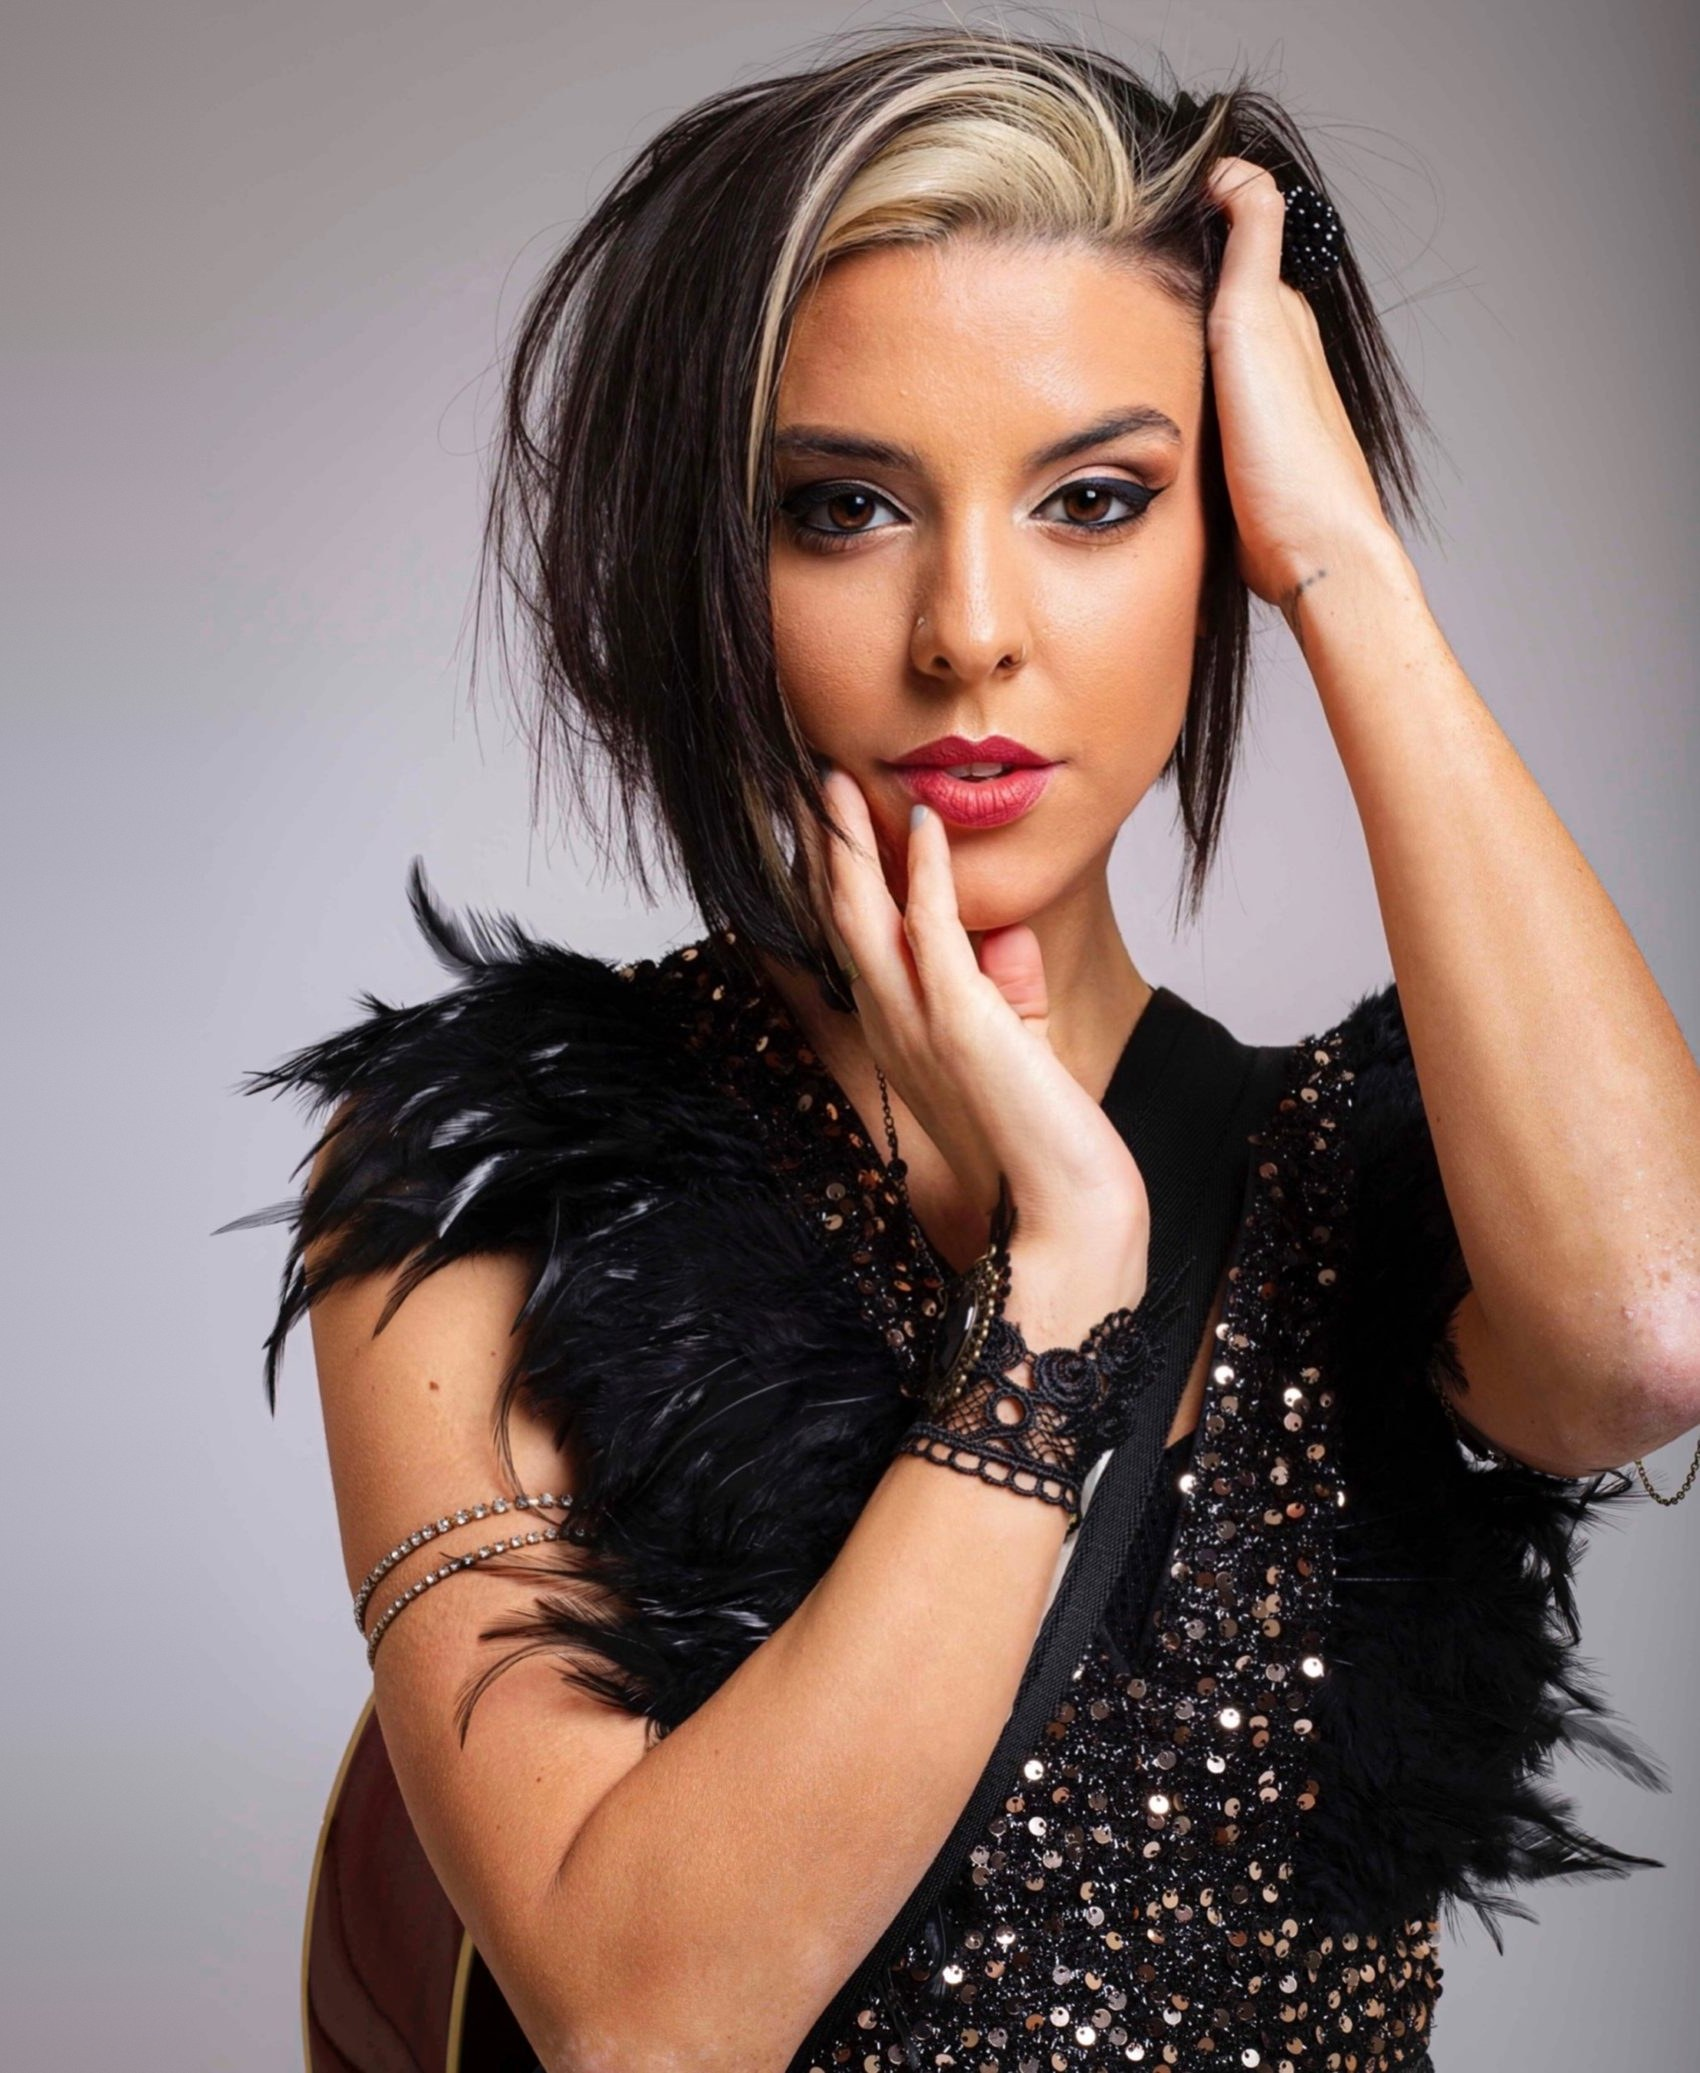
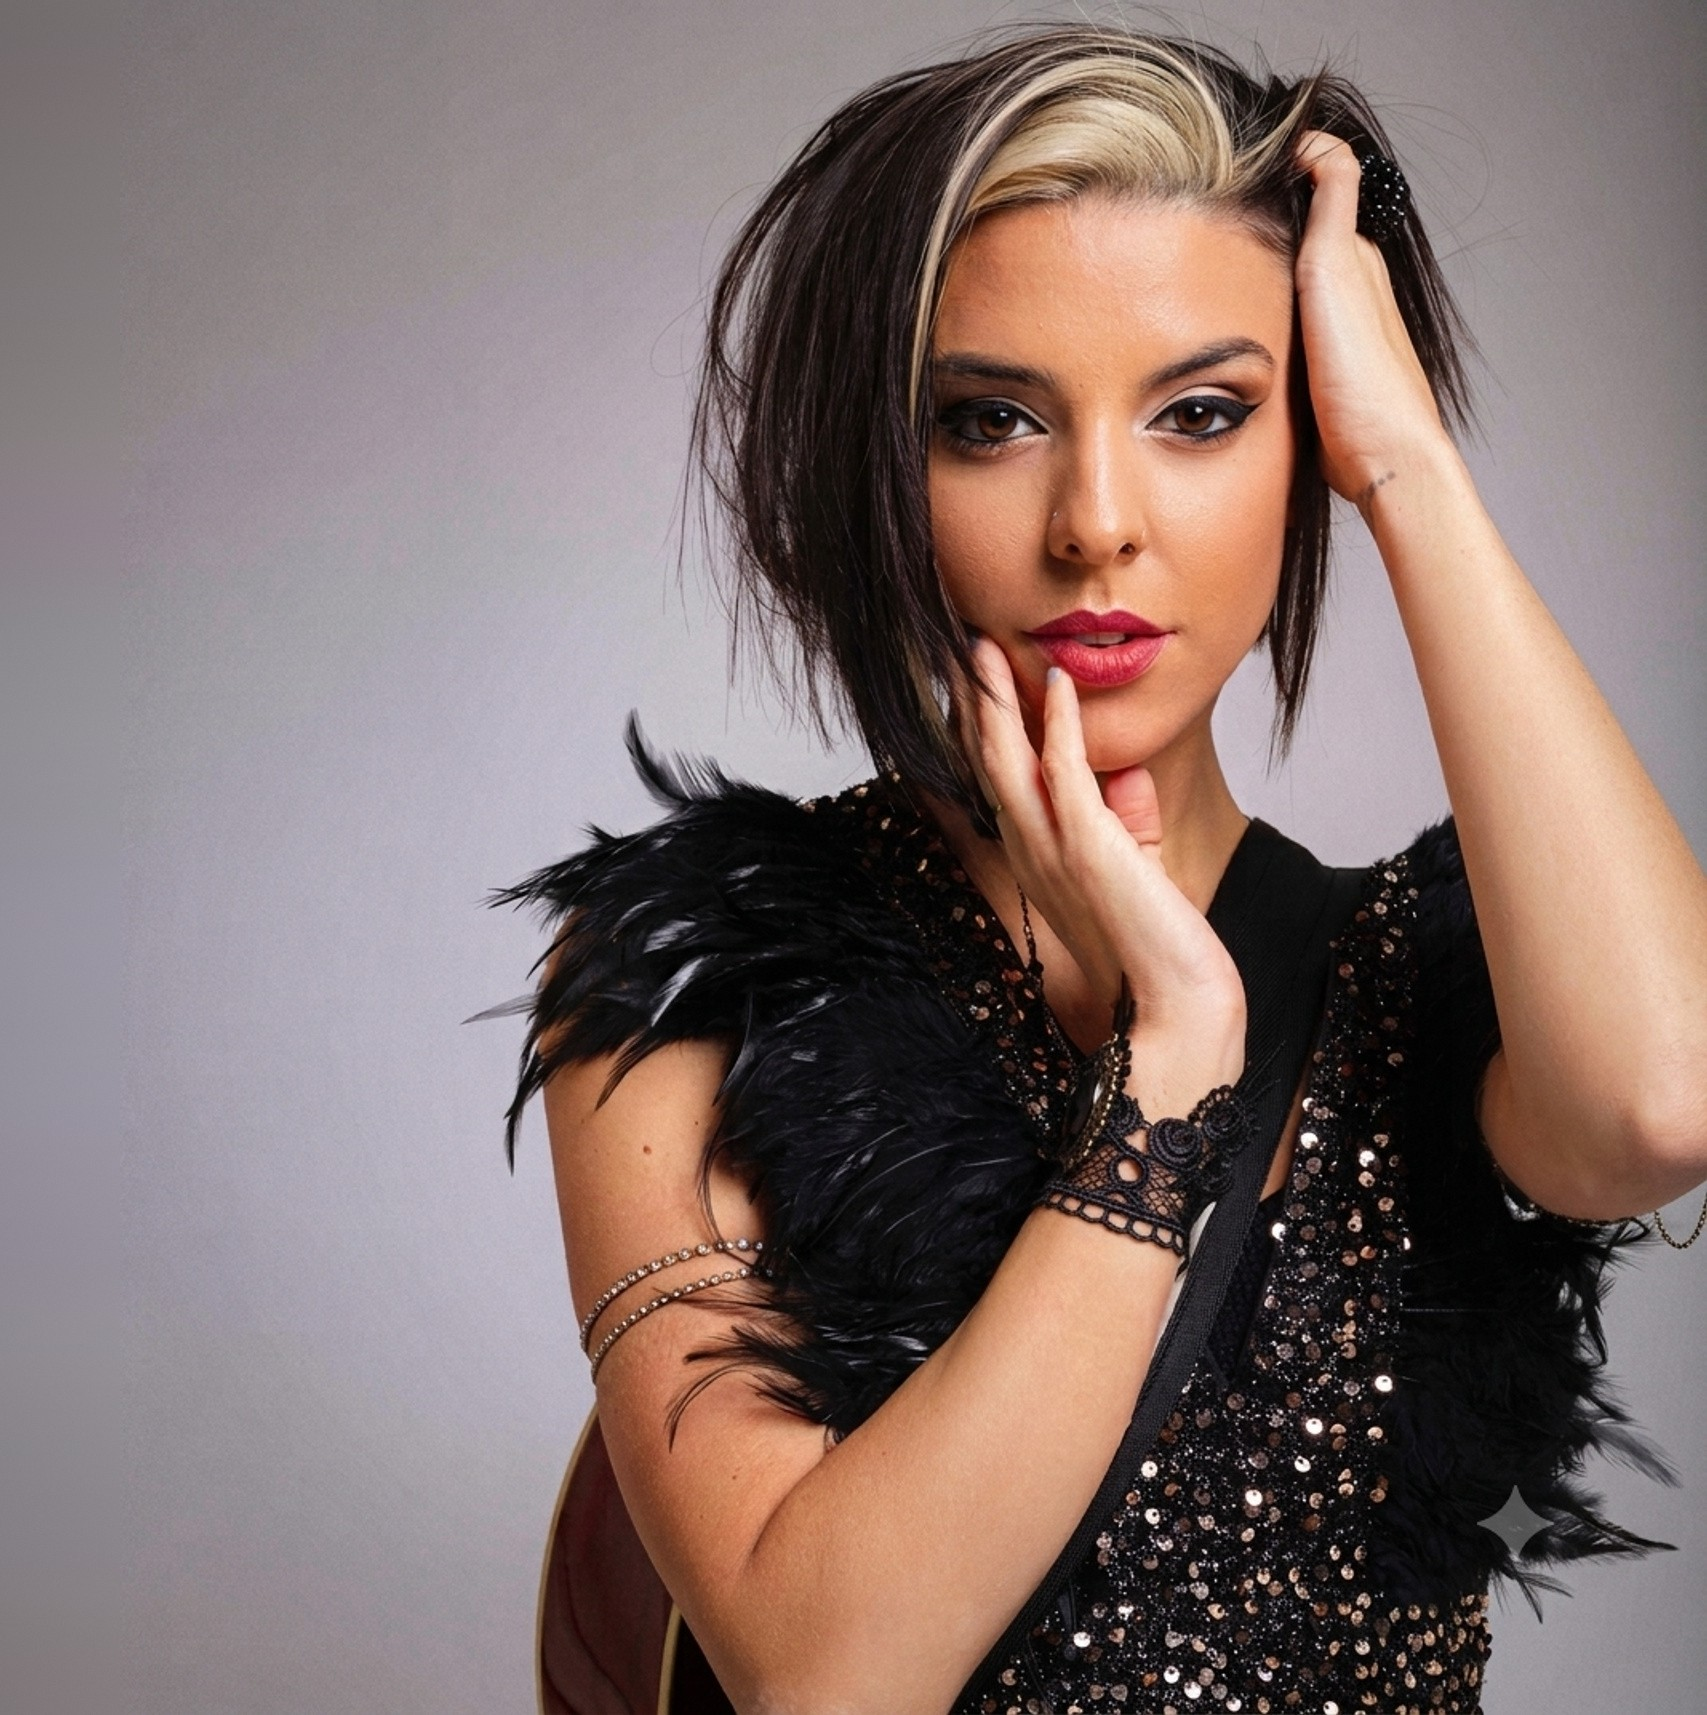
fix(hero): corregir corte del halo en la foto principal
Reencuadra el hero con una foto de mayor cobertura de fondo, aplica
la máscara de fundido sobre el contenedor visible (no sobre la
imagen ya escalada, que rompía el degradé) y suma cache-busting a
las referencias de hero.jpg/webp.

diff --git a/src/style.css b/src/style.css
@@ -226,15 +226,20 @@ h3 {
   width: 52%;
   height: 100%;
   z-index: -1;
+  overflow: hidden;
+  -webkit-mask-image: linear-gradient(to right, transparent 0%, #000 26%);
+  mask-image: linear-gradient(to right, transparent 0%, #000 26%);
 }
 
 .hero__media img {
-  width: 100%;
-  height: 100%;
+  position: absolute;
+  width: 145%;
+  max-width: none;
+  height: 145%;
+  top: -8%;
+  left: -30%;
   object-fit: cover;
-  object-position: center 30%;
-  -webkit-mask-image: linear-gradient(to right, transparent, #000 32%);
-  mask-image: linear-gradient(to right, transparent, #000 32%);
+  object-position: center 15%;
 }
 
 .hero__content {

diff --git a/index.html b/index.html
@@ -44,7 +44,7 @@
       rel="stylesheet"
       href="https://fonts.googleapis.com/css2?family=Montserrat:wght@400;500;600;700&family=Cormorant+Garamond:ital,wght@0,400;0,600;1,400&display=swap"
     />
-    <link rel="preload" as="image" href="/fotos/hero.webp" type="image/webp" fetchpriority="high" />
+    <link rel="preload" as="image" href="/fotos/hero.webp?v=4" type="image/webp" fetchpriority="high" />
 
     <script type="application/ld+json">
       {"@context":"https://schema.org","@graph":[{"@type":"Person","@id":"https://zurima.com/#zurima","name":"Zurima","url":"https://zurima.com","image":"https://zurima.com/og-image.jpg","jobTitle":"Vocalist & Bandleader","description":"Cantante y bandleader argentina. +1000 shows en vivo y repertorio de 400 canciones en Pop, Rock, Latin, Soul y Ballroom.","knowsLanguage":["Spanish","English","Italian"],"knowsAbout":["Pop","Rock","Latin","Soul","Ballroom"],"sameAs":["https://instagram.com/zurima.frers"]},{"@type":"VideoObject","name":"Cantando — full show","description":"Zurima — Cantando — full show","thumbnailUrl":"https://img.youtube.com/vi/M5gabC4rIR4/hqdefault.jpg","embedUrl":"https://www.youtube.com/embed/M5gabC4rIR4","contentUrl":"https://youtu.be/M5gabC4rIR4"},{"@type":"VideoObject","name":"MINOTAURA / Prendido Fuego Voy — en vivo","description":"Zurima — MINOTAURA / Prendido Fuego Voy — en vivo","thumbnailUrl":"https://img.youtube.com/vi/bCa0MPL5k7Q/hqdefault.jpg","embedUrl":"https://www.youtube.com/embed/bCa0MPL5k7Q","contentUrl":"https://youtu.be/bCa0MPL5k7Q"},{"@type":"VideoObject","name":"Drums & Vocals on board","description":"Zurima — Drums & Vocals on board","thumbnailUrl":"https://img.youtube.com/vi/1CEi1C3M34E/hqdefault.jpg","embedUrl":"https://www.youtube.com/embed/1CEi1C3M34E","contentUrl":"https://youtu.be/1CEi1C3M34E"},{"@type":"VideoObject","name":"Moves like Jagger","description":"Zurima — Moves like Jagger","thumbnailUrl":"https://img.youtube.com/vi/tS5MwxHwPuE/hqdefault.jpg","embedUrl":"https://www.youtube.com/embed/tS5MwxHwPuE","contentUrl":"https://youtu.be/tS5MwxHwPuE"},{"@type":"VideoObject","name":"Drive My Car — Beatles","description":"Zurima — Drive My Car — Beatles","thumbnailUrl":"https://img.youtube.com/vi/xWdopPK94u0/hqdefault.jpg","embedUrl":"https://www.youtube.com/embed/xWdopPK94u0","contentUrl":"https://youtu.be/xWdopPK94u0"},{"@type":"VideoObject","name":"Feel the Funk","description":"Zurima — Feel the Funk","thumbnailUrl":"https://img.youtube.com/vi/ZJ1nnN_rZg0/hqdefault.jpg","embedUrl":"https://www.youtube.com/embed/ZJ1nnN_rZg0","contentUrl":"https://youtu.be/ZJ1nnN_rZg0"},{"@type":"VideoObject","name":"Feel the Funk — drums","description":"Zurima — Feel the Funk — drums","thumbnailUrl":"https://img.youtube.com/vi/1wciA-KslUs/hqdefault.jpg","embedUrl":"https://www.youtube.com/embed/1wciA-KslUs","contentUrl":"https://youtu.be/1wciA-KslUs"},{"@type":"VideoObject","name":"Feel the Funk — drums II","description":"Zurima — Feel the Funk — drums II","thumbnailUrl":"https://img.youtube.com/vi/tb4H4Qop4Go/hqdefault.jpg","embedUrl":"https://www.youtube.com/embed/tb4H4Qop4Go","contentUrl":"https://youtu.be/tb4H4Qop4Go"}]}
@@ -67,9 +67,9 @@
       <section id="hero" class="hero">
         <div class="hero__media">
           <picture>
-            <source srcset="/fotos/hero.webp" type="image/webp" />
+            <source srcset="/fotos/hero.webp?v=4" type="image/webp" />
             <img
-              src="/fotos/hero.jpg"
+              src="/fotos/hero.jpg?v=4"
               alt="Zurima, vocalista, retrato de estudio con top de plumas negras"
               width="1500"
               height="2073"